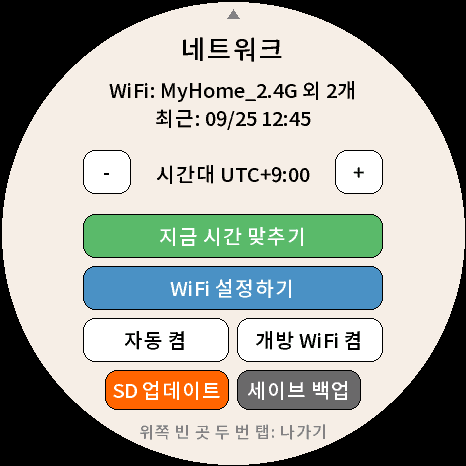
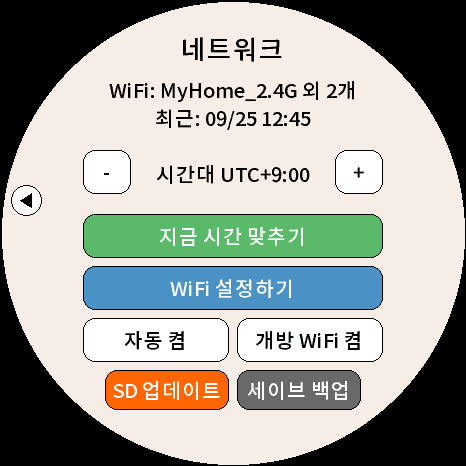
claude-version: left arrow goes back on the clock, network and backup screens (the top double-tap rarely registered on the board) - ko11.6.1, not built
Claude-Session: https://claude.ai/code/session_01CiwvMdFH9wtdhm1XA9VgMB

Changed region(s): [[0.3004, 0.9013, 0.721, 0.9614], [0.0, 0.3906, 0.0901, 0.4807], [0.4807, 0.03, 0.5107, 0.0601]]

diff --git a/claude-version/확인_대기.md b/claude-version/확인_대기.md
@@ -19,7 +19,7 @@
 ## 다음 펌(ko11.6)에 들어갈 것 (아직 빌드 안 함)
 - 메뉴 터치가 가끔 한 번에 안 먹던 문제: 터치 시간을 "처리한 시각"이 아니라 "읽은 시각"으로 잼
   (render ~70ms 동안 쌓인 누름+뗌이 한꺼번에 처리되면 0ms로 계산돼 스침(<60ms)으로 버려졌음)
-- 시간 설정·네트워크 화면: 위쪽 빈 곳 두 번 탭 = 나가기 (위쪽 작은 ▲ + 아래 안내 글). 네트워크는 전에 "위쪽 한 번 탭"
+- 시간 설정·네트워크·세이브 백업 화면: ko11.6.1부터 왼쪽 ◀ 화살표 = 뒤로 (두 번 탭은 기기에서 거의 인식 안 돼서 뺌)
 - 공간 정리 (파티션): FAT 9MB(안 씀) → 앱 6MB×2 + nvs2 256KB. nvs(0x9000)·otadata(0xe000)는 그대로 → 세이브 유지
   - 보관함·왕관·명예의 전당·도감 기록은 nvs2로 옮김 (첫 부팅 때 한 번 복사, 성공해야 옛 자리 삭제)
   - 설치: **3개 파일**(0x0 부트로더 / 0x8000 새 파티션 / 0xe000 앱)로 해야 새 배치가 적용됨.
